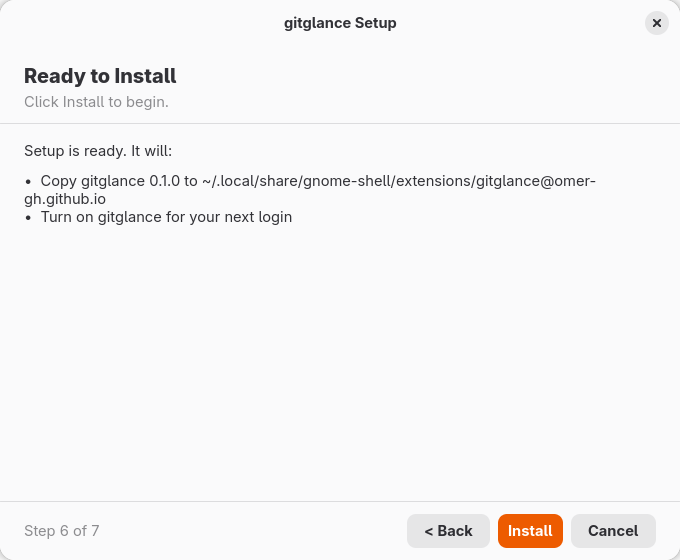
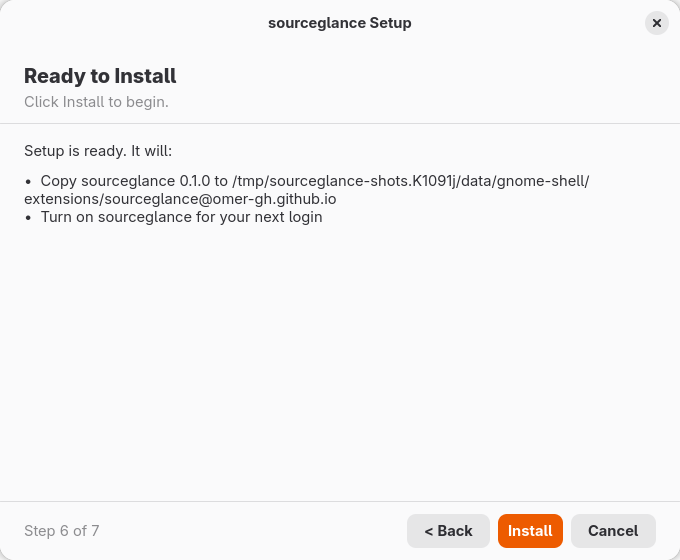
docs(setup): refresh wizard screenshots for sourceglance
The setup wizard screenshots still showed the old name. Re-render them
with tests/setup-screenshots.js in an isolated headless GNOME Shell. The
welcome page now says sourceglance shows issues and pull requests.

Changed region(s): [[0.0309, 0.3036, 0.8647, 0.3946], [0.4015, 0.0304, 0.6176, 0.0607]]

diff --git a/tools/installer/lib/wizard.js b/tools/installer/lib/wizard.js
@@ -177,7 +177,7 @@ export class Wizard {
             icon.icon_name = 'system-software-install-symbolic';
         const welcomeText = this.mode === 'upgrade'
             ? `Setup will upgrade sourceglance ${this.installed} to ${this.version}.`
-            : 'Setup will install sourceglance, which shows your GitHub issues in the GNOME top bar.';
+            : 'Setup will install sourceglance, which shows your GitHub issues and pull requests in the GNOME top bar.';
         this._page('welcome', vbox(18, [
             icon,
             label(`<b>Welcome to the sourceglance ${esc(this.version)} Setup Wizard</b>`, {markup: true, css: ['title-4']}),
